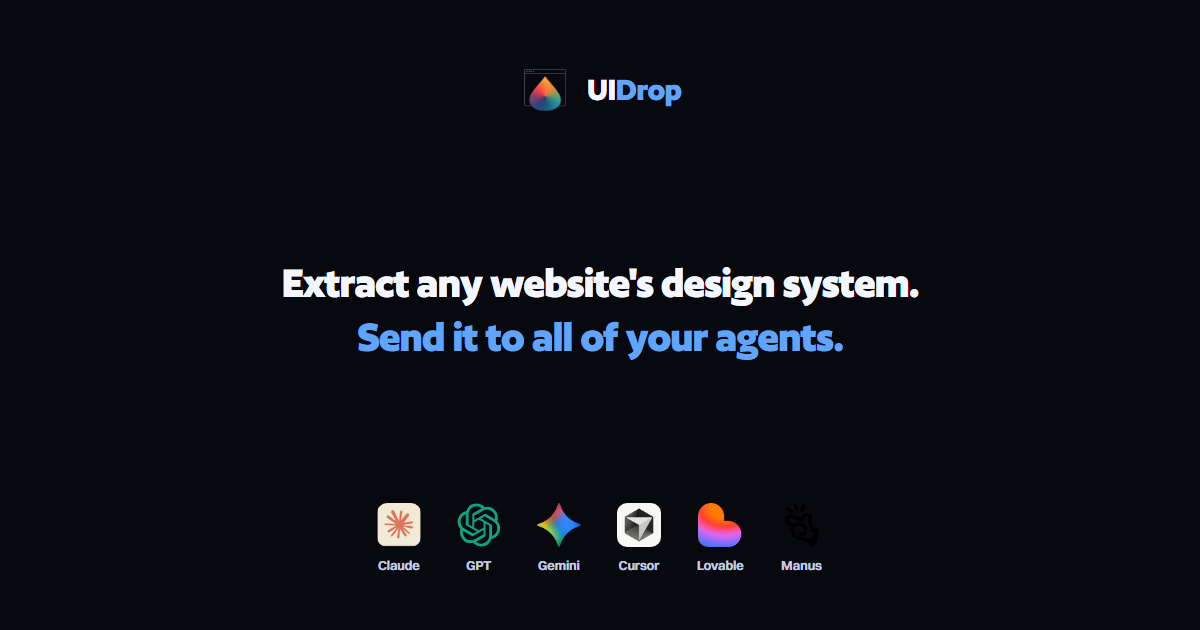
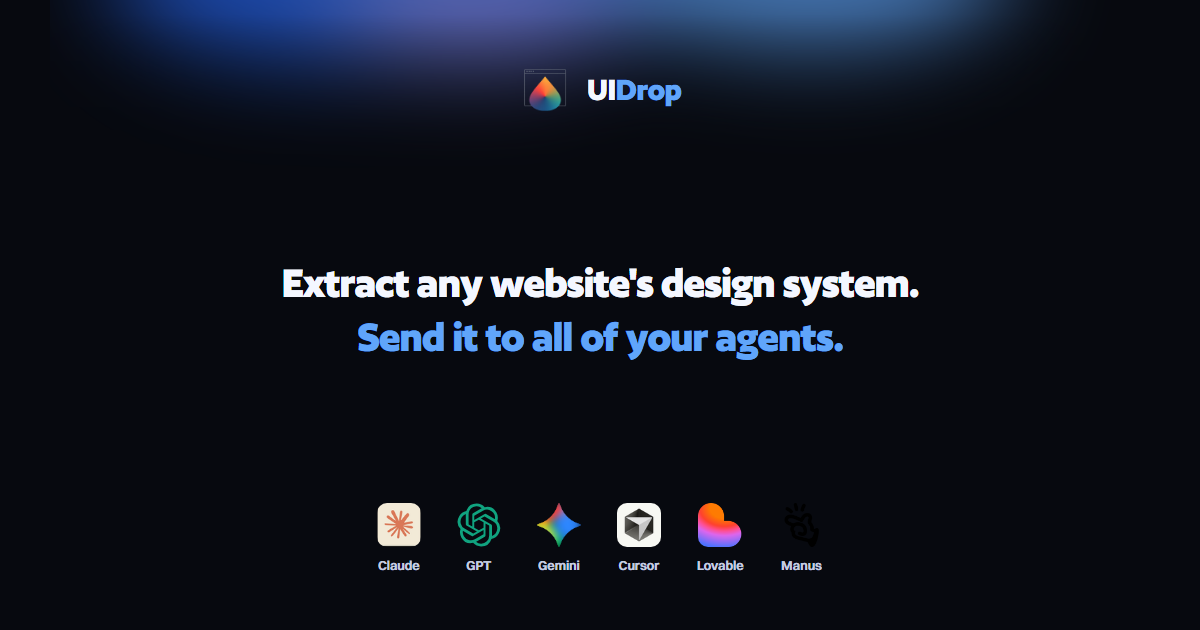
Add a top Haikei blur behind the OG layout.

Changed region(s): [[0.0617, 0.0, 0.8633, 0.181]]

diff --git a/site/og-card.html b/site/og-card.html
@@ -30,6 +30,7 @@ body {
   color: #eef1fb;
 }
 .card {
+  position: relative;
   width: 1200px;
   height: 630px;
   padding: 64px 72px 56px;
@@ -39,7 +40,24 @@ body {
   justify-content: space-between;
   background: #07090f;
   text-align: center;
+  overflow: hidden;
 }
+.haikei {
+  position: absolute;
+  top: -120px;
+  left: 50%;
+  width: 1100px;
+  height: 320px;
+  transform: translateX(-50%);
+  pointer-events: none;
+  z-index: 0;
+  filter: blur(52px);
+  opacity: 0.7;
+  -webkit-mask-image: linear-gradient(to bottom, #000 0%, #000 42%, transparent 100%);
+  mask-image: linear-gradient(to bottom, #000 0%, #000 42%, transparent 100%);
+}
+.haikei svg { width: 100%; height: 100%; display: block; }
+.brand, .slogan, .agents { position: relative; z-index: 1; }
 .brand {
   display: flex;
   align-items: center;
@@ -107,6 +125,14 @@ body {
 </head>
 <body>
   <div class="card">
+    <div class="haikei" aria-hidden="true">
+      <svg viewBox="0 0 1100 320" xmlns="http://www.w3.org/2000/svg">
+        <ellipse cx="280" cy="90" rx="220" ry="110" fill="#2563eb"/>
+        <ellipse cx="520" cy="40" rx="260" ry="120" fill="#3b82f6"/>
+        <ellipse cx="760" cy="80" rx="200" ry="100" fill="#60a5fa"/>
+        <ellipse cx="430" cy="130" rx="140" ry="70" fill="#818cf8"/>
+      </svg>
+    </div>
     <div class="brand">
       <img src="icons/icon512.png" alt=""/>
       <div class="wordmark">UI<span>Drop</span></div>
